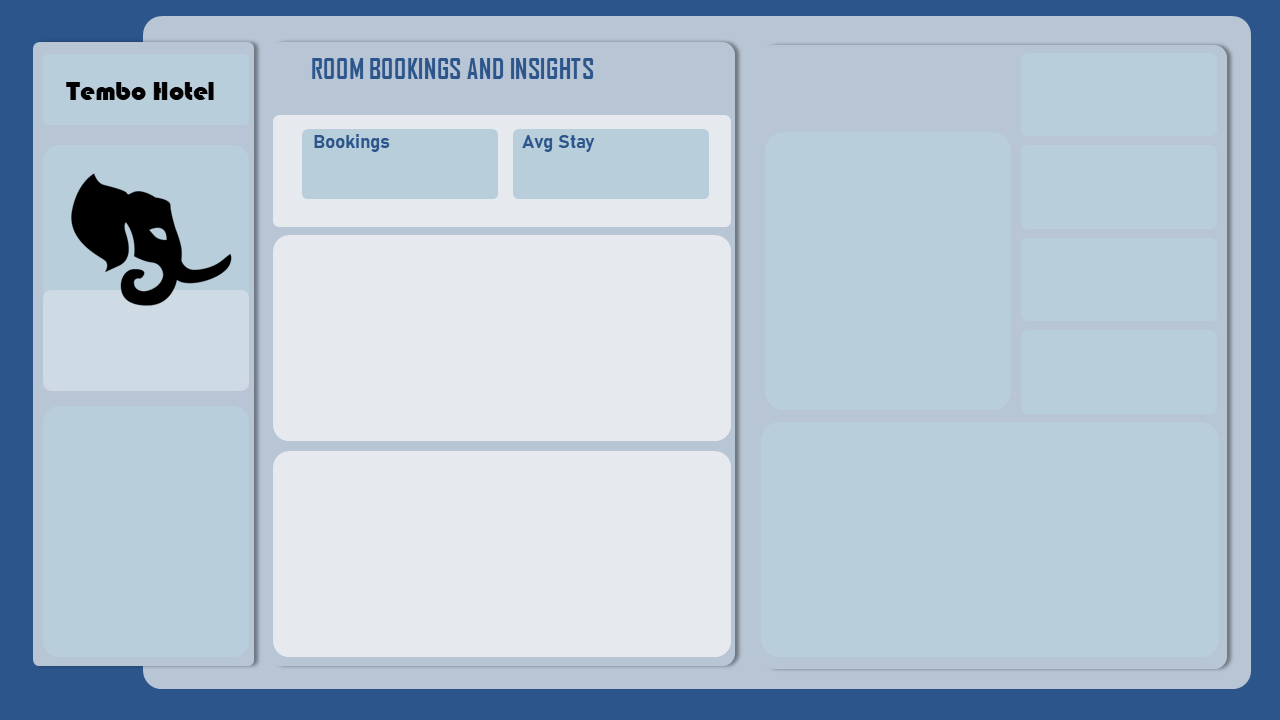
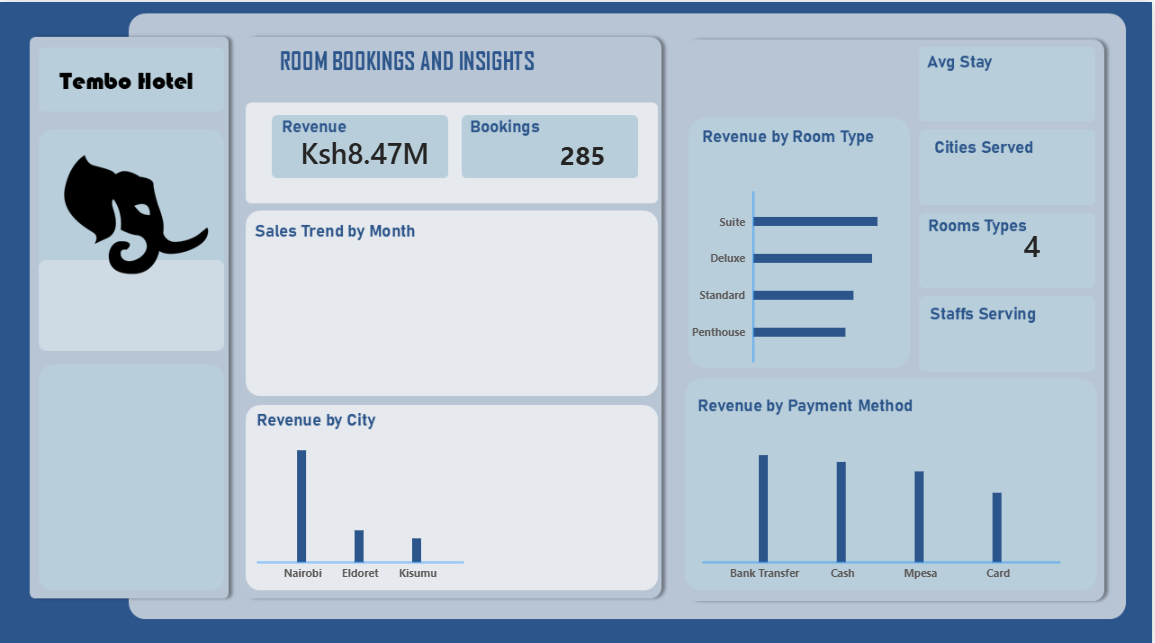
Uppdated Power BI visuals

diff --git a/README.MD b/README.MD
@@ -6,7 +6,7 @@ I will be working on the business questions on SQL, then do them again on power 
 
 Here is where the dashboard will be displayed using power power BI.
 
-<img src='./wireframe.png'>
+<img src='./Dwireframe.png'>
 
 ## Key Performance Indicators
 